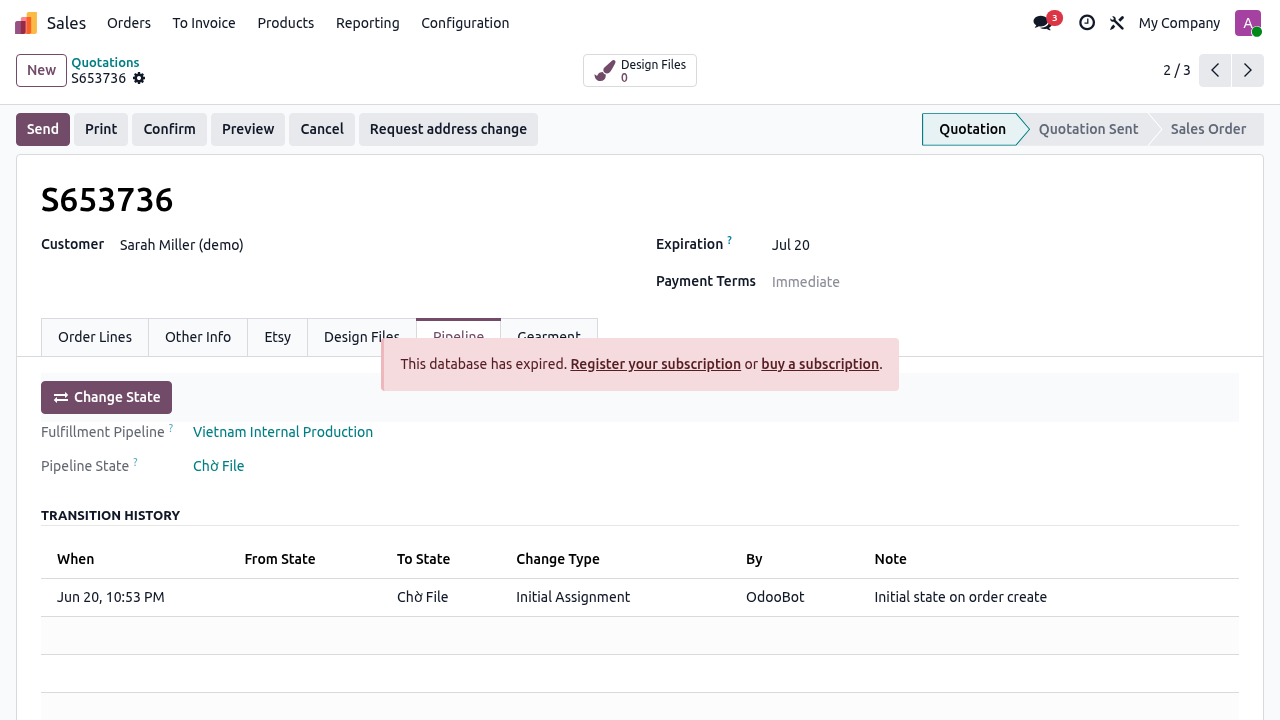
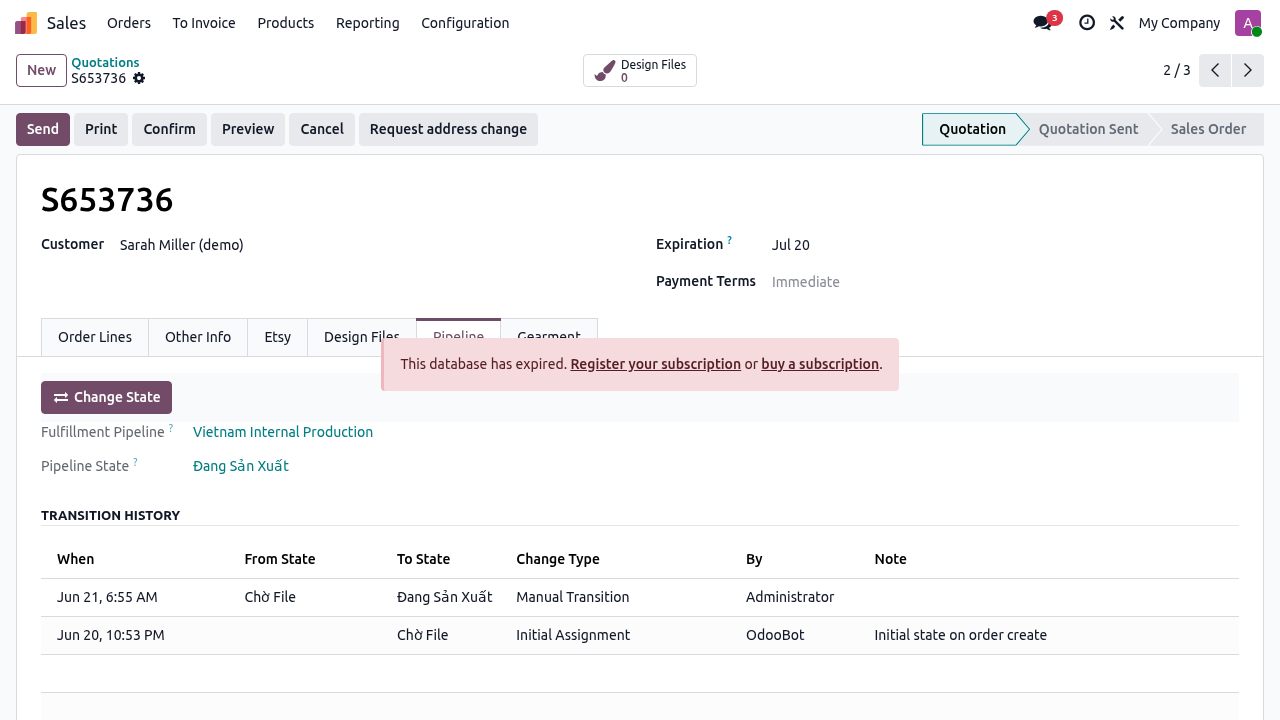
[docs] docs(business-flows): /qa outcome — D#3 wizard bug found+fixed, refreshed D#3 screenshot [skip-confluence]

diff --git a/docs/owner/business-flows/COMPARISON_MOCKUP_VS_ACTUAL_v2.md b/docs/owner/business-flows/COMPARISON_MOCKUP_VS_ACTUAL_v2.md
@@ -125,12 +125,25 @@ Ordered roughly by ROI / independence. Status updated as slices ship (2026-06-20
 D#1/D#2/D#4 (earlier), D#6/D#7 + D#3 (pipeline tab) + D#8 (fulfillment detail) + Phase C
 (curated product Inventory tab) captured 2026-06-21 under `screenshots/local/`.
 
-**QA note (2026-06-21):** the deferred D#3 screenshot had been blocked by a *stale web-server
-registry* — `-u <module> --stop-after-init` upgrades the DB out-of-band but the long-running
-container keeps its old in-memory registry, so forms threw a spurious OWL "field is undefined".
-`docker restart namco_odoo19` reloads the registry and the forms render correctly. This is an
-operational step, **not a code defect**; no rework was needed. Targeted QA on the three new
-surfaces (D#3 / D#8 / Phase C) found **0 code bugs**.
+**QA note (2026-06-21):** two things surfaced during the `/qa` autofix sweep of the three new
+surfaces.
+
+1. *Operational (not a defect):* the deferred D#3 screenshot had been blocked by a **stale
+   web-server registry** — `-u <module> --stop-after-init` upgrades the DB out-of-band but the
+   long-running container keeps its old in-memory registry, so forms threw a spurious OWL "field
+   is undefined". `docker restart namco_odoo19` reloads the registry and forms render correctly.
+
+2. *Real bug found + fixed (ISSUE-QA-D3-01, `b02af9d`):* the D#3 **Change State wizard was
+   unusable** — its New State dropdown listed zero selectable states. The `new_state_id` domain
+   filters on the related `pipeline_id`, which `default_get` never seeded into the fresh transient
+   form, so the domain evaluated against an empty pipeline. Fixed by seeding `pipeline_id` +
+   `current_state_id` in `default_get`; verified live (dropdown now lists the 6 pipeline states and
+   a Chờ File → Đang Sản Xuất transition completes with a "Manual Transition" audit row) + a
+   regression test on the form-open path. The 3 prior D#3 ORM tests `create()`d the transient
+   directly, bypassing the form path, which is why they missed it.
+
+D#8 and Phase C: **0 bugs** (list/filters/group-by/form + curation all verified live).
+Full QA report: `.gstack/qa-reports/qa-report-localhost-2026-06-21.md`.
 
 All shipped slices were developed + verified **local-first** (db `namco_odoo19`, seeded via
 `scripts/seed_demo_local.py`); evidence under `screenshots/local/`.
